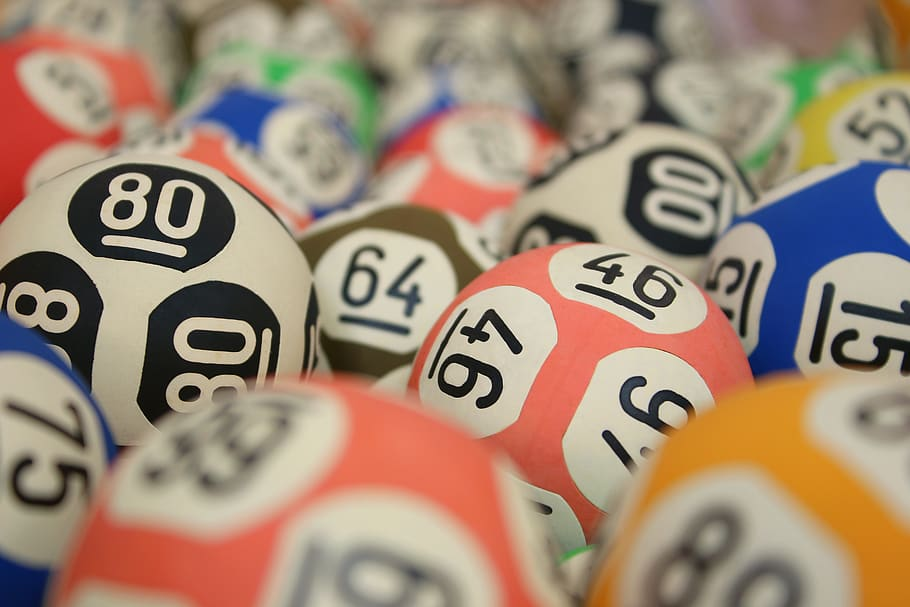
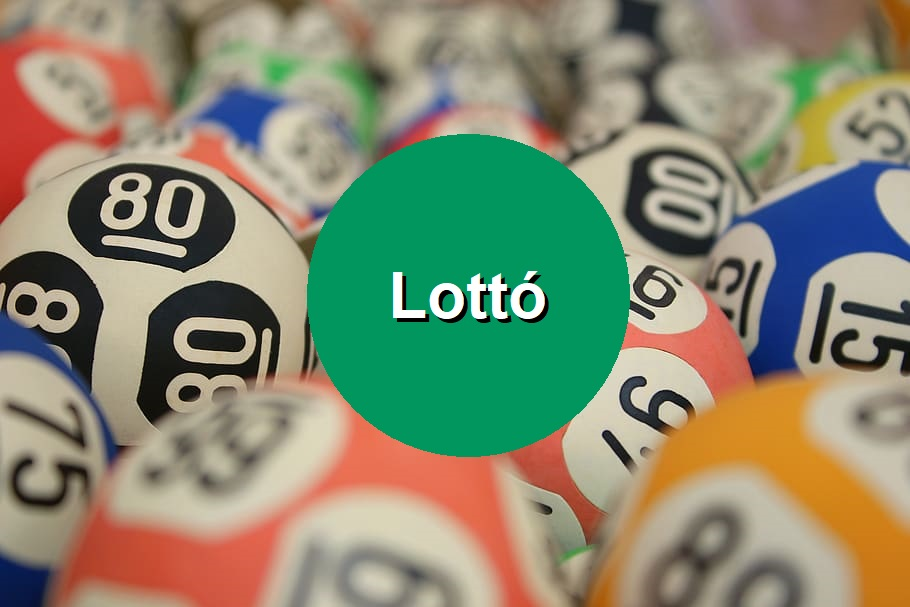
Navbar, kép kész

Changed region(s): [[0.3385, 0.2076, 0.7077, 0.771]]

diff --git a/index.html b/index.html
@@ -9,41 +9,41 @@
     <title>Lottó Projekt</title>
 </head>
 <body>
-    <div class="container">
-        <header>Lottó</header>
-        <nav>
-            <ul>
-                <a href="">
-                    <li>Korábbi sorsolások</li>
-                </a>
-                <hr>    
-                <a href="">
-                    <li>Leggyakoribb számok</li>
-                </a>
-                <hr>    
-                <a href="">
-                    <li>Leghasonlóbb számsorok</li>
-                </a>
-                <hr>    
-                <a href="">
-                    <li>Leghosszabb sorozatok számsorokban</li>
-                </a>
-                <hr>    
-                <a href="">
-                    <li>Legkisebb összegű számsorok</li>
-                </a>
-                <hr>    
-                <a href="">
-                    <li>Grafikonok</li>
-                </a>
-                <hr>    
-                <a href="">
-                    <li>Érdekes történetek</li>
-                </a>
-                <hr>    
-            </ul>
-        </nav>
-        <section>Lorem ipsum dolor sit amet consectetur adipisicing elit. Itaque accusamus fugit quis delectus, provident natus sapiente quasi sit similique odio earum animi eaque minima nihil tenetur ipsa sed sint voluptatem?</section>
-    </div>
+    <nav>
+    <img src="/kep/hatter.jpg" alt=""><br>
+    <a href="">
+        Korábbi sorsolások
+    </a>
+    <hr>    
+    <a href="">
+        Leggyakoribb számok
+    </a>
+    <hr>    
+    <a href="">
+        Leghasonlóbb számsorok
+    </a>
+    <hr>    
+    <a href="">
+        Leghosszabb sorozatok számsorokban
+    </a>
+    <hr>    
+    <a href="">
+        Legkisebb összegű számsorok
+    </a>
+    <hr>    
+    <a href="">
+        Grafikonok
+    </a>
+    <hr>    
+    <a href="">
+        Érdekes történetek
+    </a>
+    <hr>    
+    </nav>
+    <article>
+        <h1>Korábbi sorsolások</h1>
+        <h2>Előző heti nyerőszámok</h2>
+        <h2>A múlt heti nyerőszámok</h2>
+    </article>
 </body>
 </html>

diff --git a/styles.css b/styles.css
@@ -1,0 +1,31 @@
+body{
+    font-family: Arial, Helvetica, sans-serif;
+}
+nav{
+    float:left;
+    background-color:#424242;
+    height: 100vh;
+    color:#efefef;
+}
+nav a{
+    text-decoration: none;
+    color:#efefef;
+    margin-left: 8%;
+}
+nav img{
+    width: 400px;
+    margin-bottom: 10px;
+}
+hr{
+    width: 90%;
+    margin-left: 5%;
+}
+h1, h2{
+    font-weight: bold;
+}
+.container{
+    padding-left: 0;
+    padding-right: 0;
+    margin-left: 0;
+    margin-right: 0;
+}
